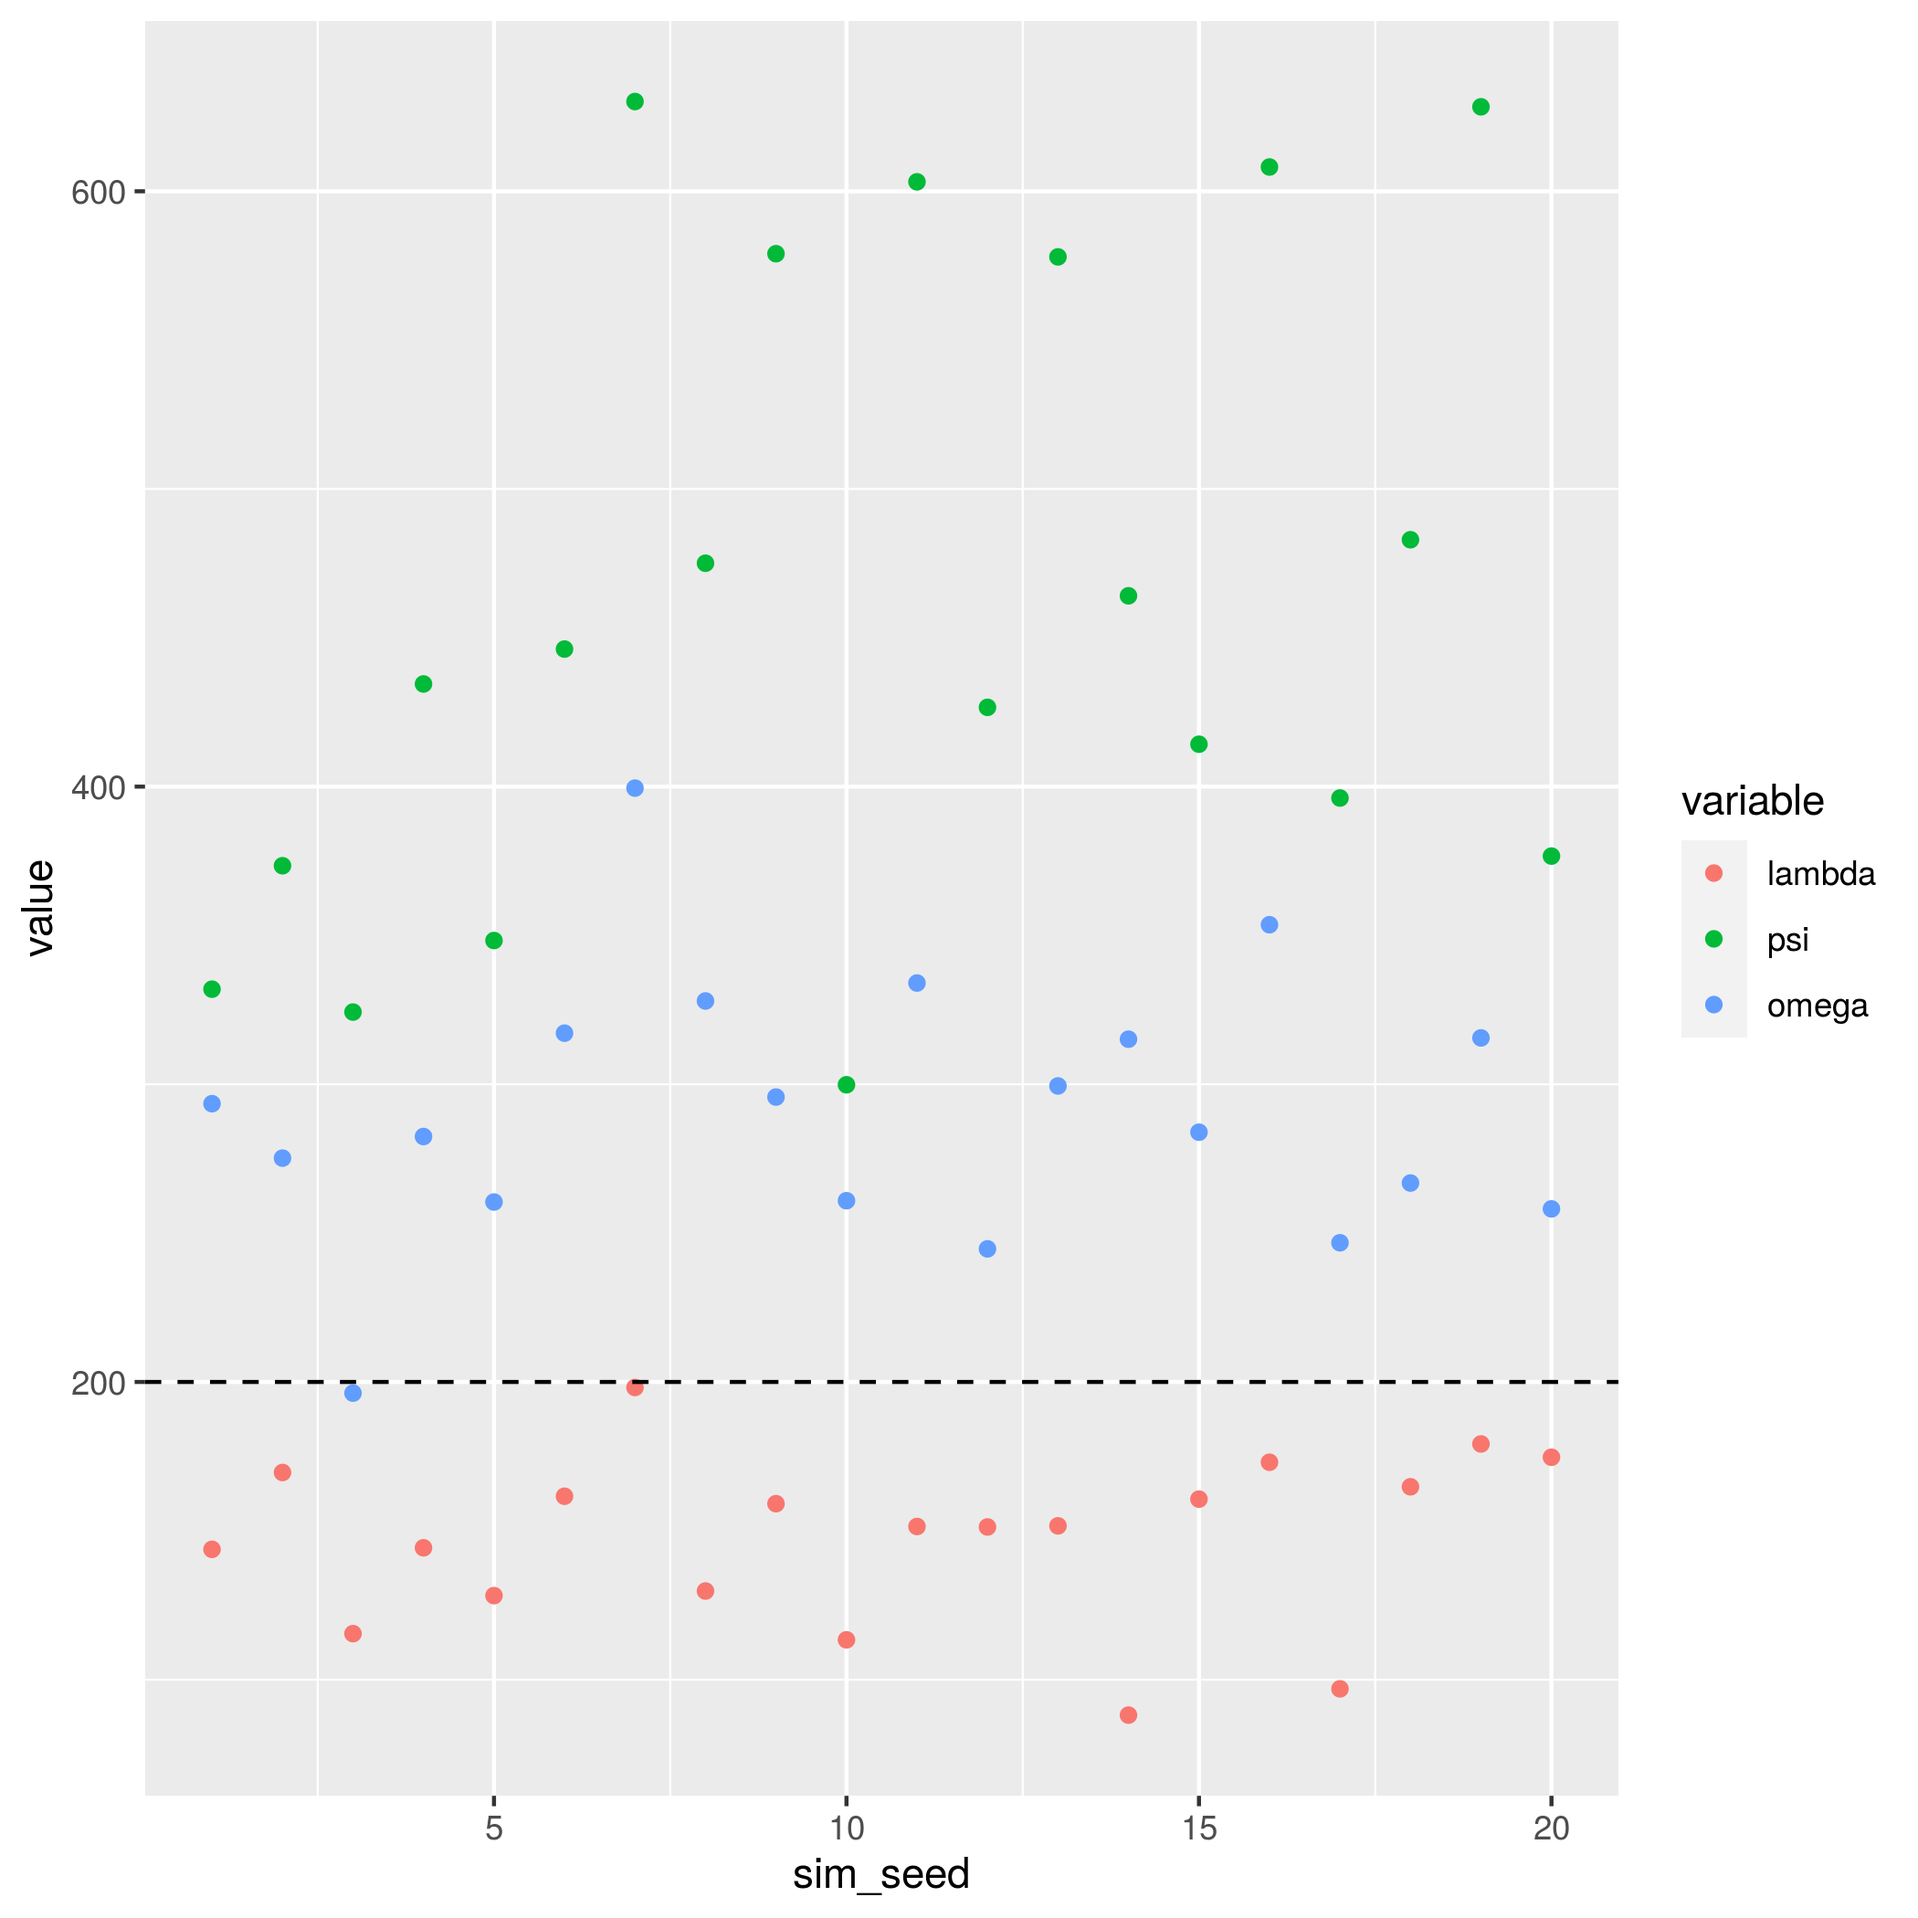
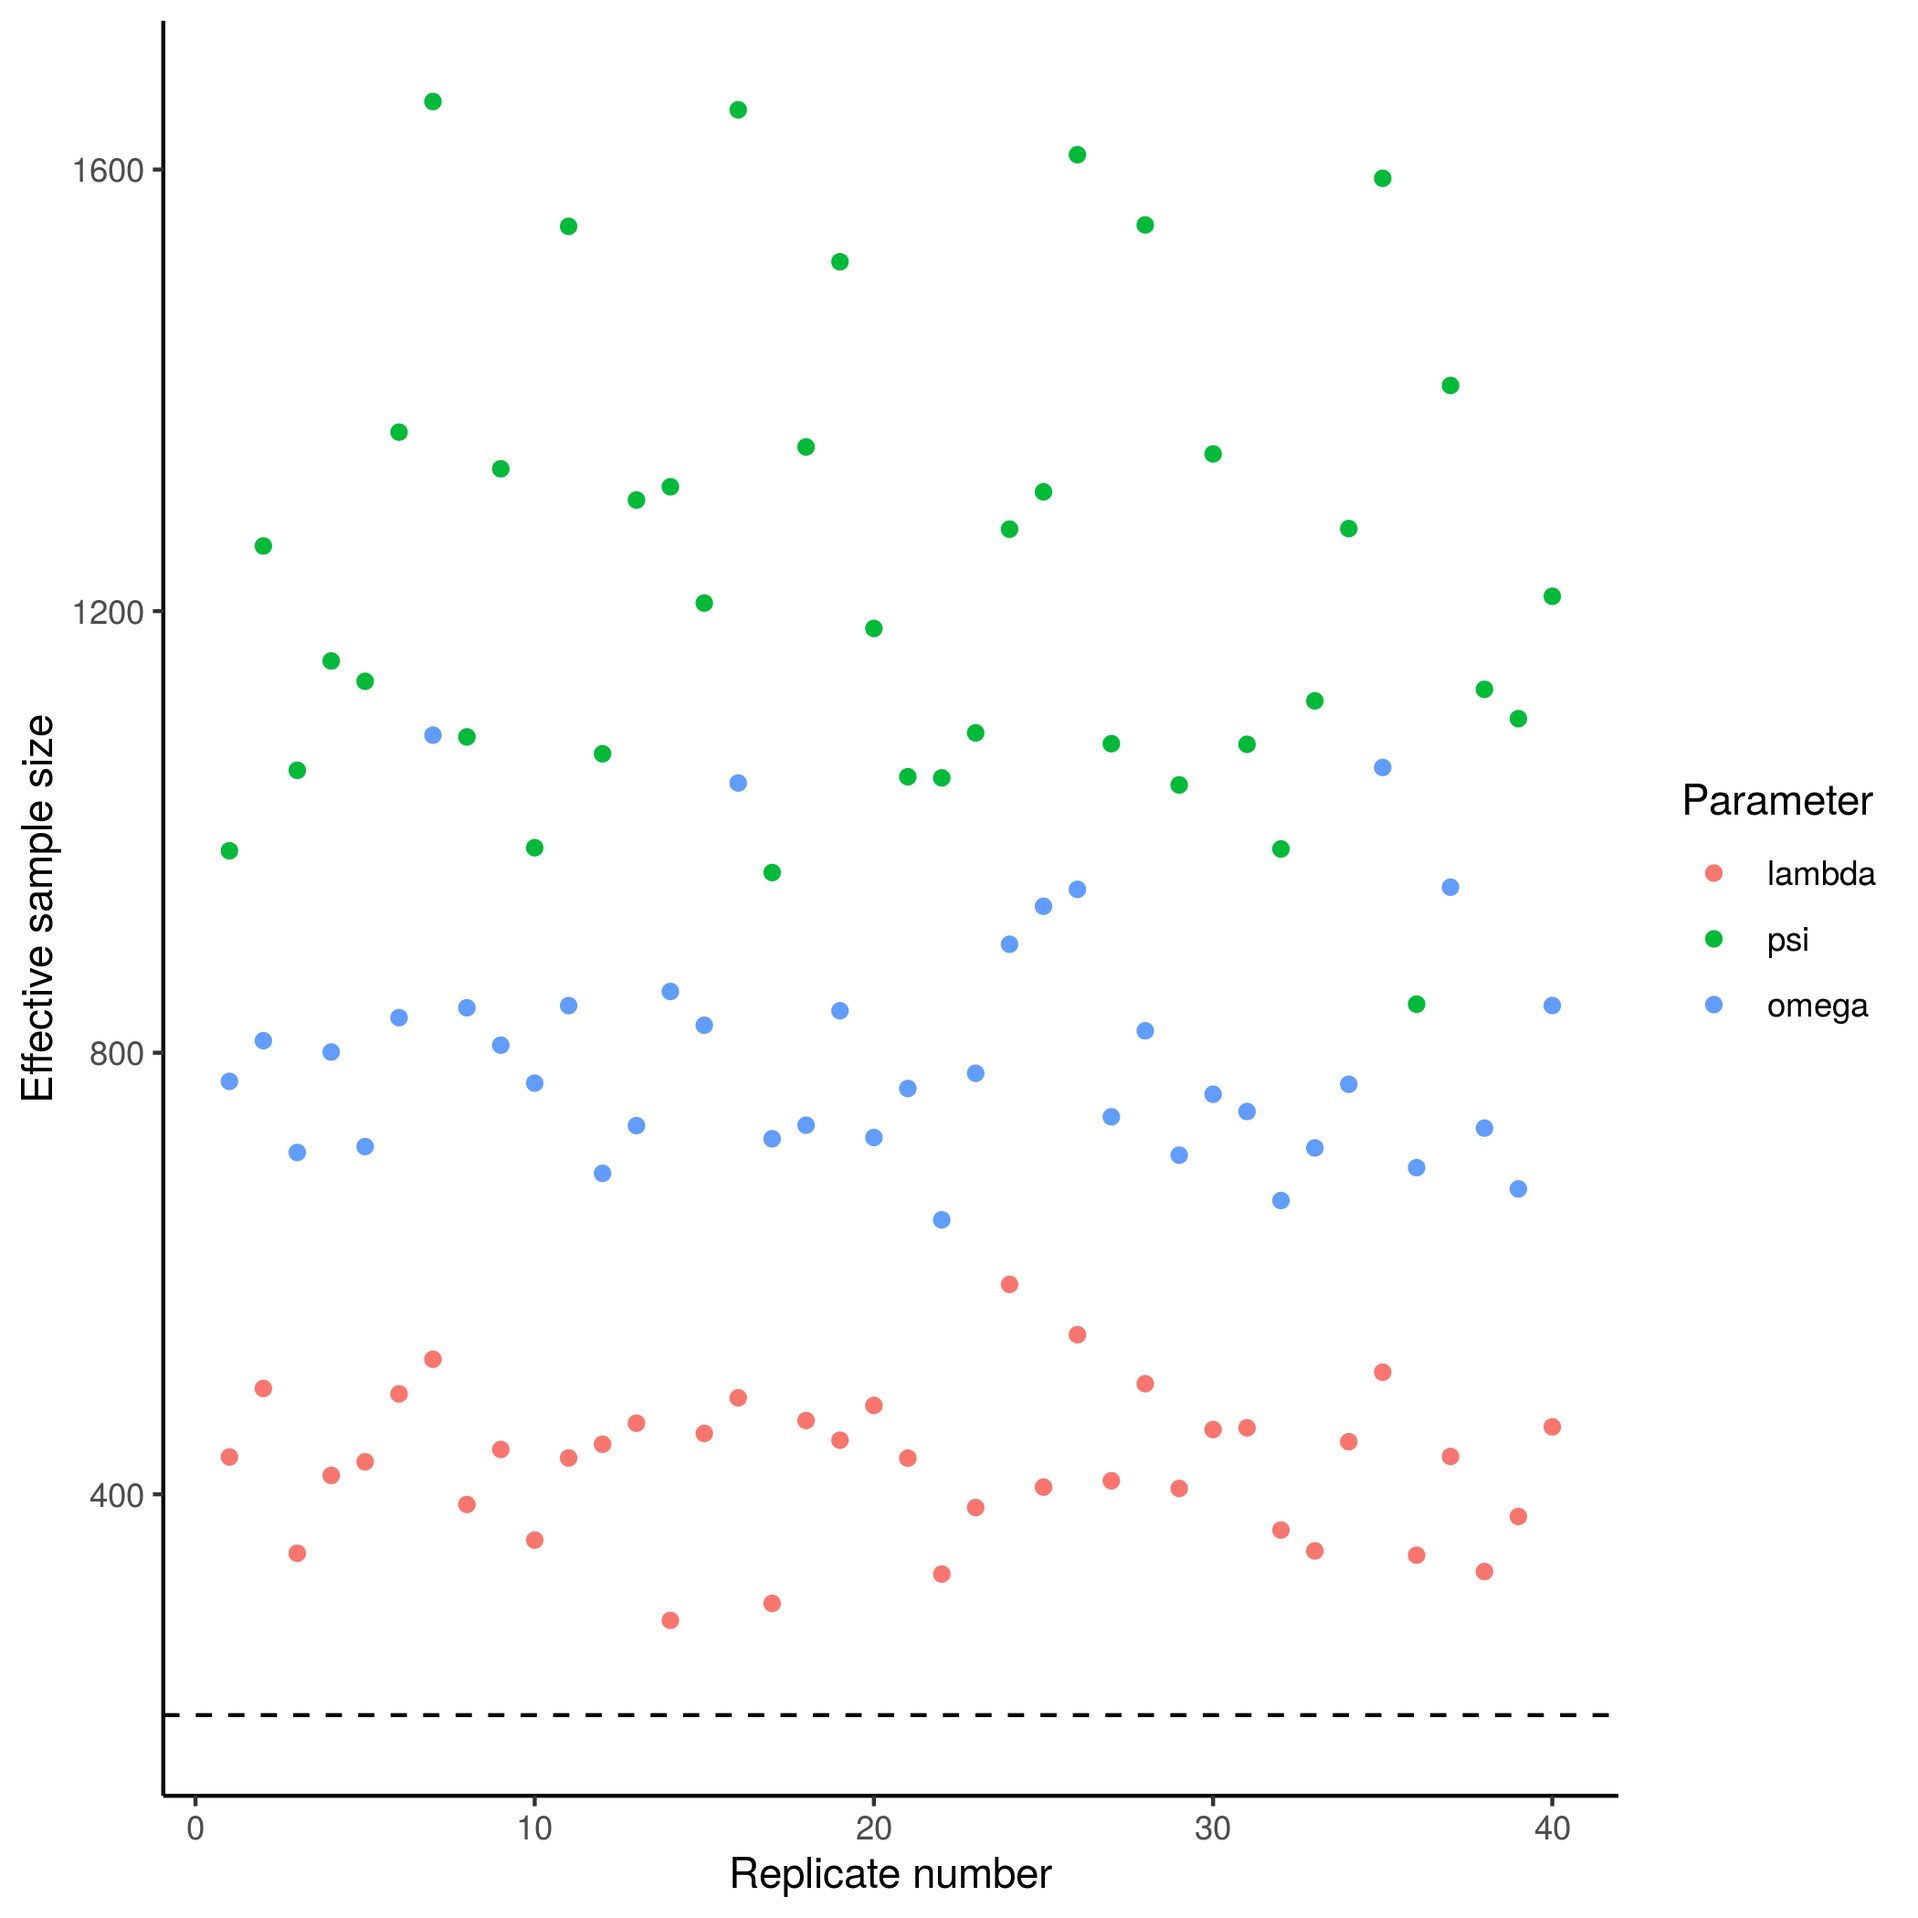
Furrr (#43)
* remove magic number

* run the mcmc in parallel

* triple the number of replicates to get a sufficient size

* documentation

* documentation

* avoid crashing machine by running too many processes

* update figures

diff --git a/ChangeLog.md b/ChangeLog.md
@@ -1,5 +1,10 @@
 # ChangeLog
 
+## 0.1.3.1
+
+- There is now another example `prevalence-ci-calibration` which looks at the
+  coverage properties of the CI under the approximate likelihood.
+
 ## 0.1.3.0
 
 - The calculation of the likelihood surface cross sections has been replaced by
